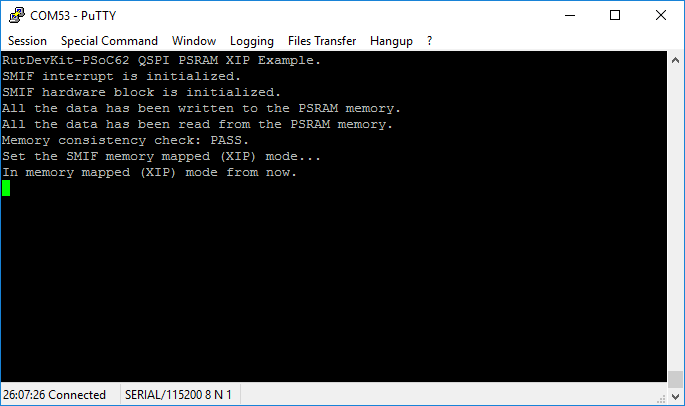
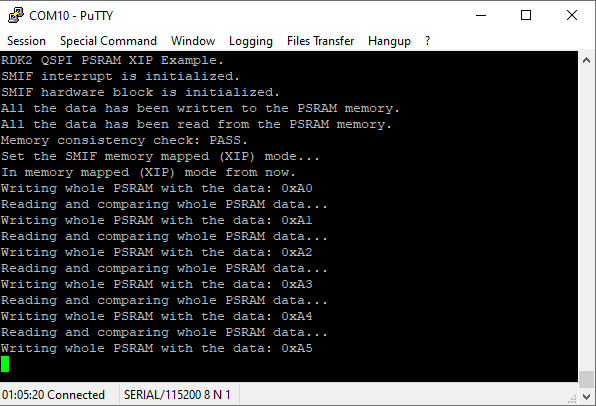
ReadMe.md update.

diff --git a/README.md b/README.md
@@ -1,4 +1,4 @@
-# RutDevKit-PSoC62 QSPI PSRAM XIP Example
+# RDK2 QSPI PSRAM XIP Example
 
 Rutronik Development Kit Programmable System-on-Chip CY8C6245AZI-S3D72 "QSPI PSRAM XIP" Example. 
 
@@ -6,11 +6,16 @@ This example demonstrates how to configure and use PSRAM APS6404L-3SQR-ZR  in XI
 
  <img src="images/rutdevkit_model.png" style="zoom:20%;" />
 
+## Requirements
+
+- [ModusToolbox® software](https://www.infineon.com/cms/en/design-support/tools/sdk/modustoolbox-software/) v3.0
+
 ### Using the code example with a ModusToolbox IDE:
 
 1. Import the project: **File** > **Import...** > **General** > **Existing Projects into Workspace** > **Next**.
-2. Select the directory where **"RutDevKit-PSoC62_QSPI_PSRAM_XIP"** resides and click  **Finish**.
-3. Select and build the project **Project ** > **Build Project**.
+2. Select the directory where **"RDK2_QSPI_PSRAM_XIP"** resides and click  **Finish**.
+3. Update libraries using  a **"Library Manager"** tool.
+4. Select and build the project **Project ** > **Build Project**.
 
 ### Operation
 
@@ -30,7 +35,7 @@ The APS6404L-3SQR-ZR PSRAM memory configuration structures are generated by the 
 
 ### Debugging
 
-If you successfully have imported the example, the debug configurations are already prepared to use with a the KitProg3, MiniProg4, or J-link. Open the ModusToolbox perspective and find the Quick Panel. Click on the desired debug launch configuration and wait until the programming completes and debugging starts.
+If you successfully have imported the example, the debug configurations are already prepared to use with a the KitProg3, MiniProg4, or J-link. Open the ModusToolbox perspective and find the Quick Panel. Click on the desired debug launch configuration and wait until the programming completes and the debugging starts.
 
 <img src="images/psram_xip_debug_select.png" style="zoom:100%;" />
 
